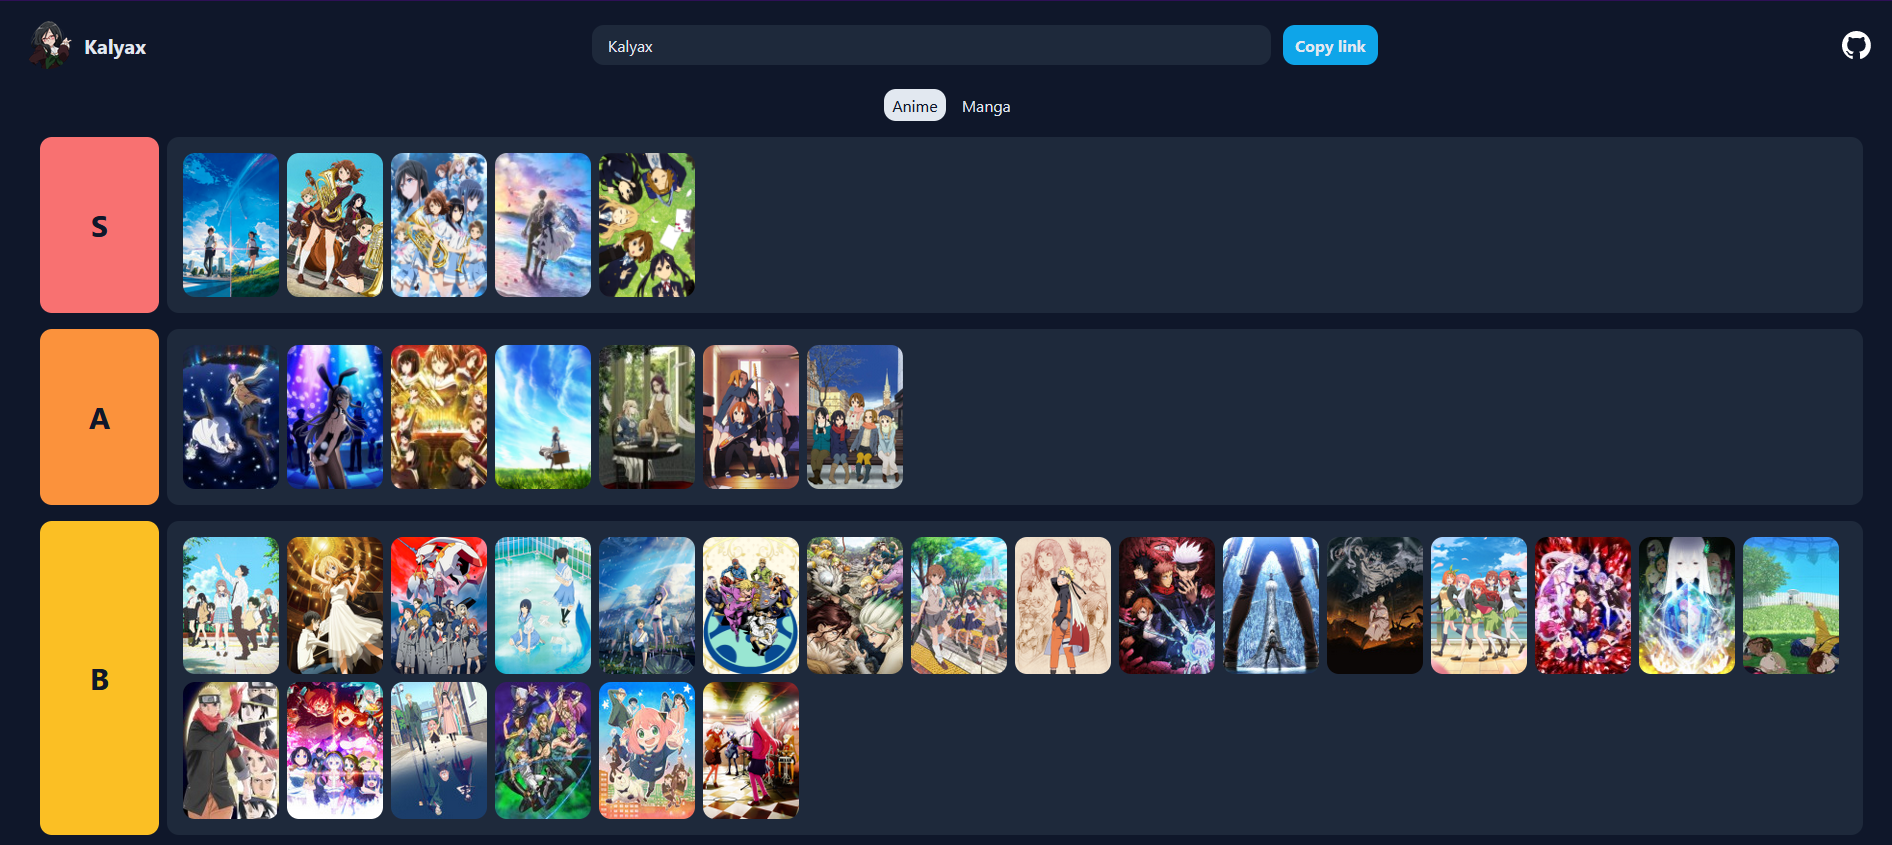
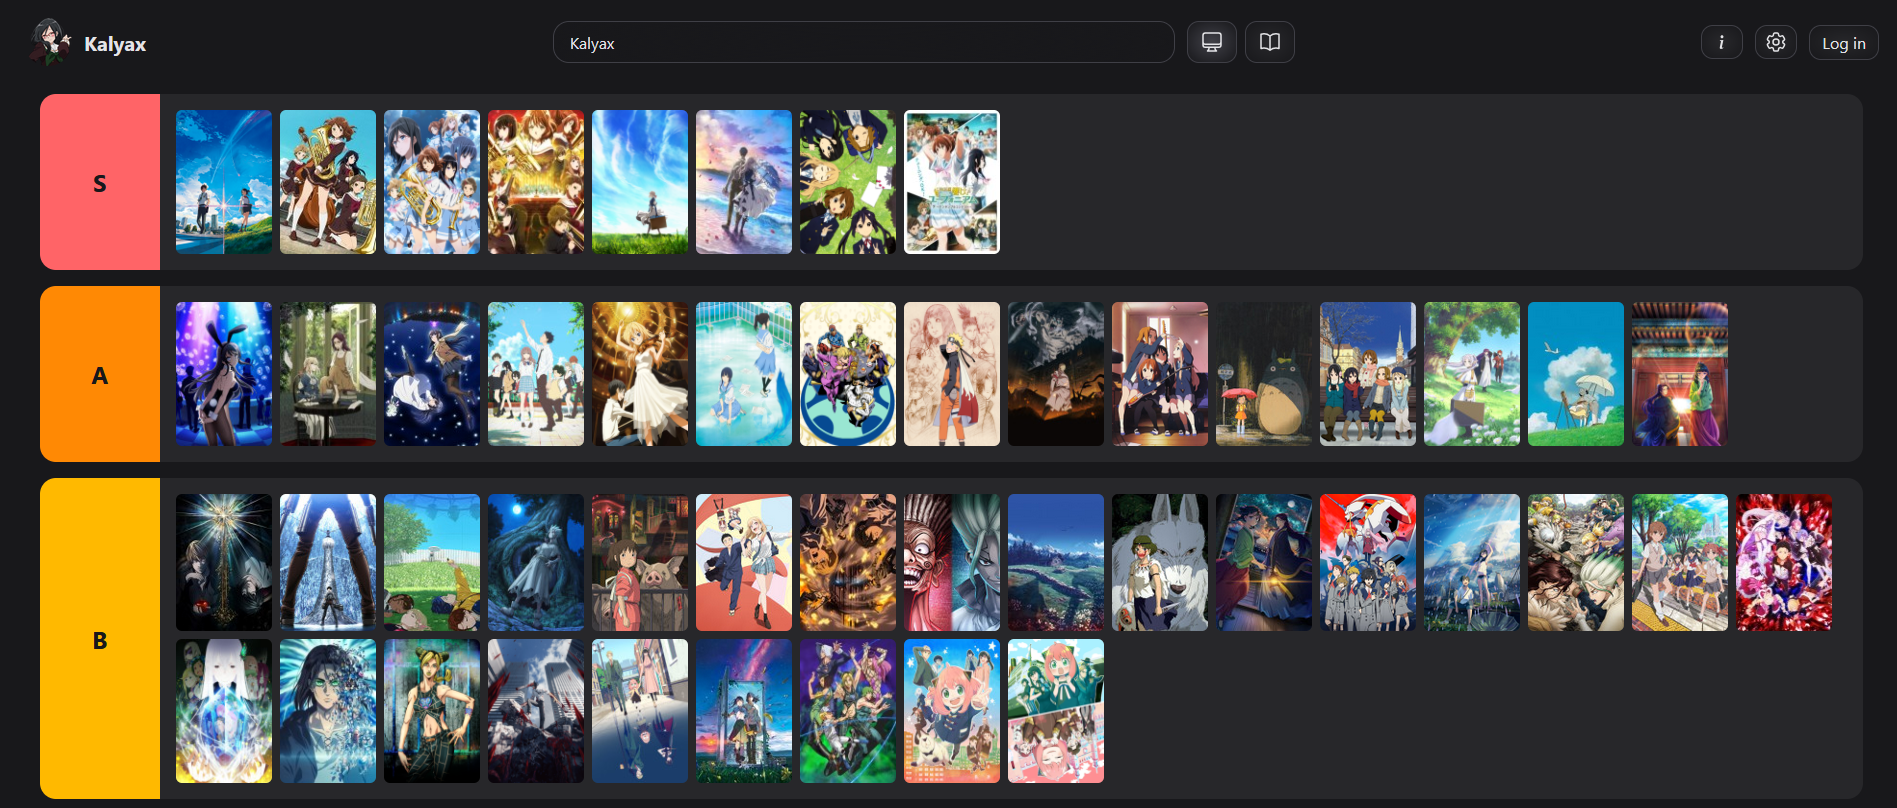
changes readme

diff --git a/README.md b/README.md
@@ -4,10 +4,8 @@
 
 ## About
 Display your Anilist scores in a tierlist format. Tiers are customizable and you can either display Animes or Manga.
-
-## Todo
-- Add an error message when you can't find a user
-- Add filters
+You can log in into your Anilist account and move entries from one tier to another. If you are logged in, you account will be updated.
+Visit the [Anilist forum thread](https://anilist.co/forum/thread/63809).
 
 ## Contribute
 Feel free to improve the app and send a pull request!
